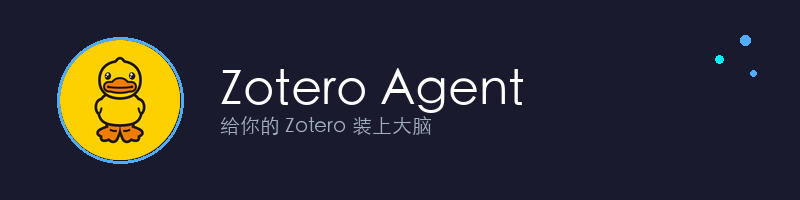
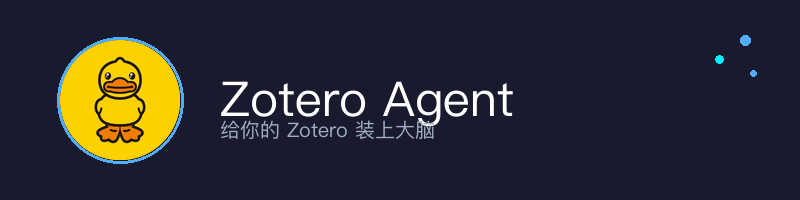
update: reade me

Changed region(s): [[0.25, 0.33, 0.6562, 0.72]]

diff --git a/assets/generate_banner.py b/assets/generate_banner.py
@@ -53,17 +53,29 @@ text_y_title = HEIGHT // 2 - 35
 text_y_tagline = HEIGHT // 2 + 15
 
 # Try to load fonts (fallback to default if not available)
-try:
-    # macOS Chinese fonts
-    title_font = ImageFont.truetype("/System/Library/Fonts/PingFang.ttc", 48)
-    tagline_font = ImageFont.truetype("/System/Library/Fonts/PingFang.ttc", 20)
-except:
+font_paths = [
+    "/System/Library/AssetsV2/com_apple_MobileAsset_Font7/3419f2a427639ad8c8e139149a287865a90fa17e.asset/AssetData/PingFang.ttc",
+    "/System/Library/Fonts/PingFang.ttc",
+    "/System/Library/Fonts/STHeiti Light.ttc",
+    "/System/Library/Fonts/Hiragino Sans GB.ttc",
+]
+
+title_font = None
+tagline_font = None
+
+for font_path in font_paths:
     try:
-        title_font = ImageFont.truetype("/System/Library/Fonts/STHeiti Light.ttc", 48)
-        tagline_font = ImageFont.truetype("/System/Library/Fonts/STHeiti Light.ttc", 20)
-    except:
-        title_font = ImageFont.load_default()
-        tagline_font = ImageFont.load_default()
+        title_font = ImageFont.truetype(font_path, 48)
+        tagline_font = ImageFont.truetype(font_path, 20)
+        print(f"Using font: {font_path}")
+        break
+    except Exception as e:
+        continue
+
+if title_font is None:
+    title_font = ImageFont.load_default()
+    tagline_font = ImageFont.load_default()
+    print("Using default font")
 
 # Draw title
 draw.text((text_x, text_y_title), "Zotero Agent", font=title_font, fill=TEXT_COLOR)
